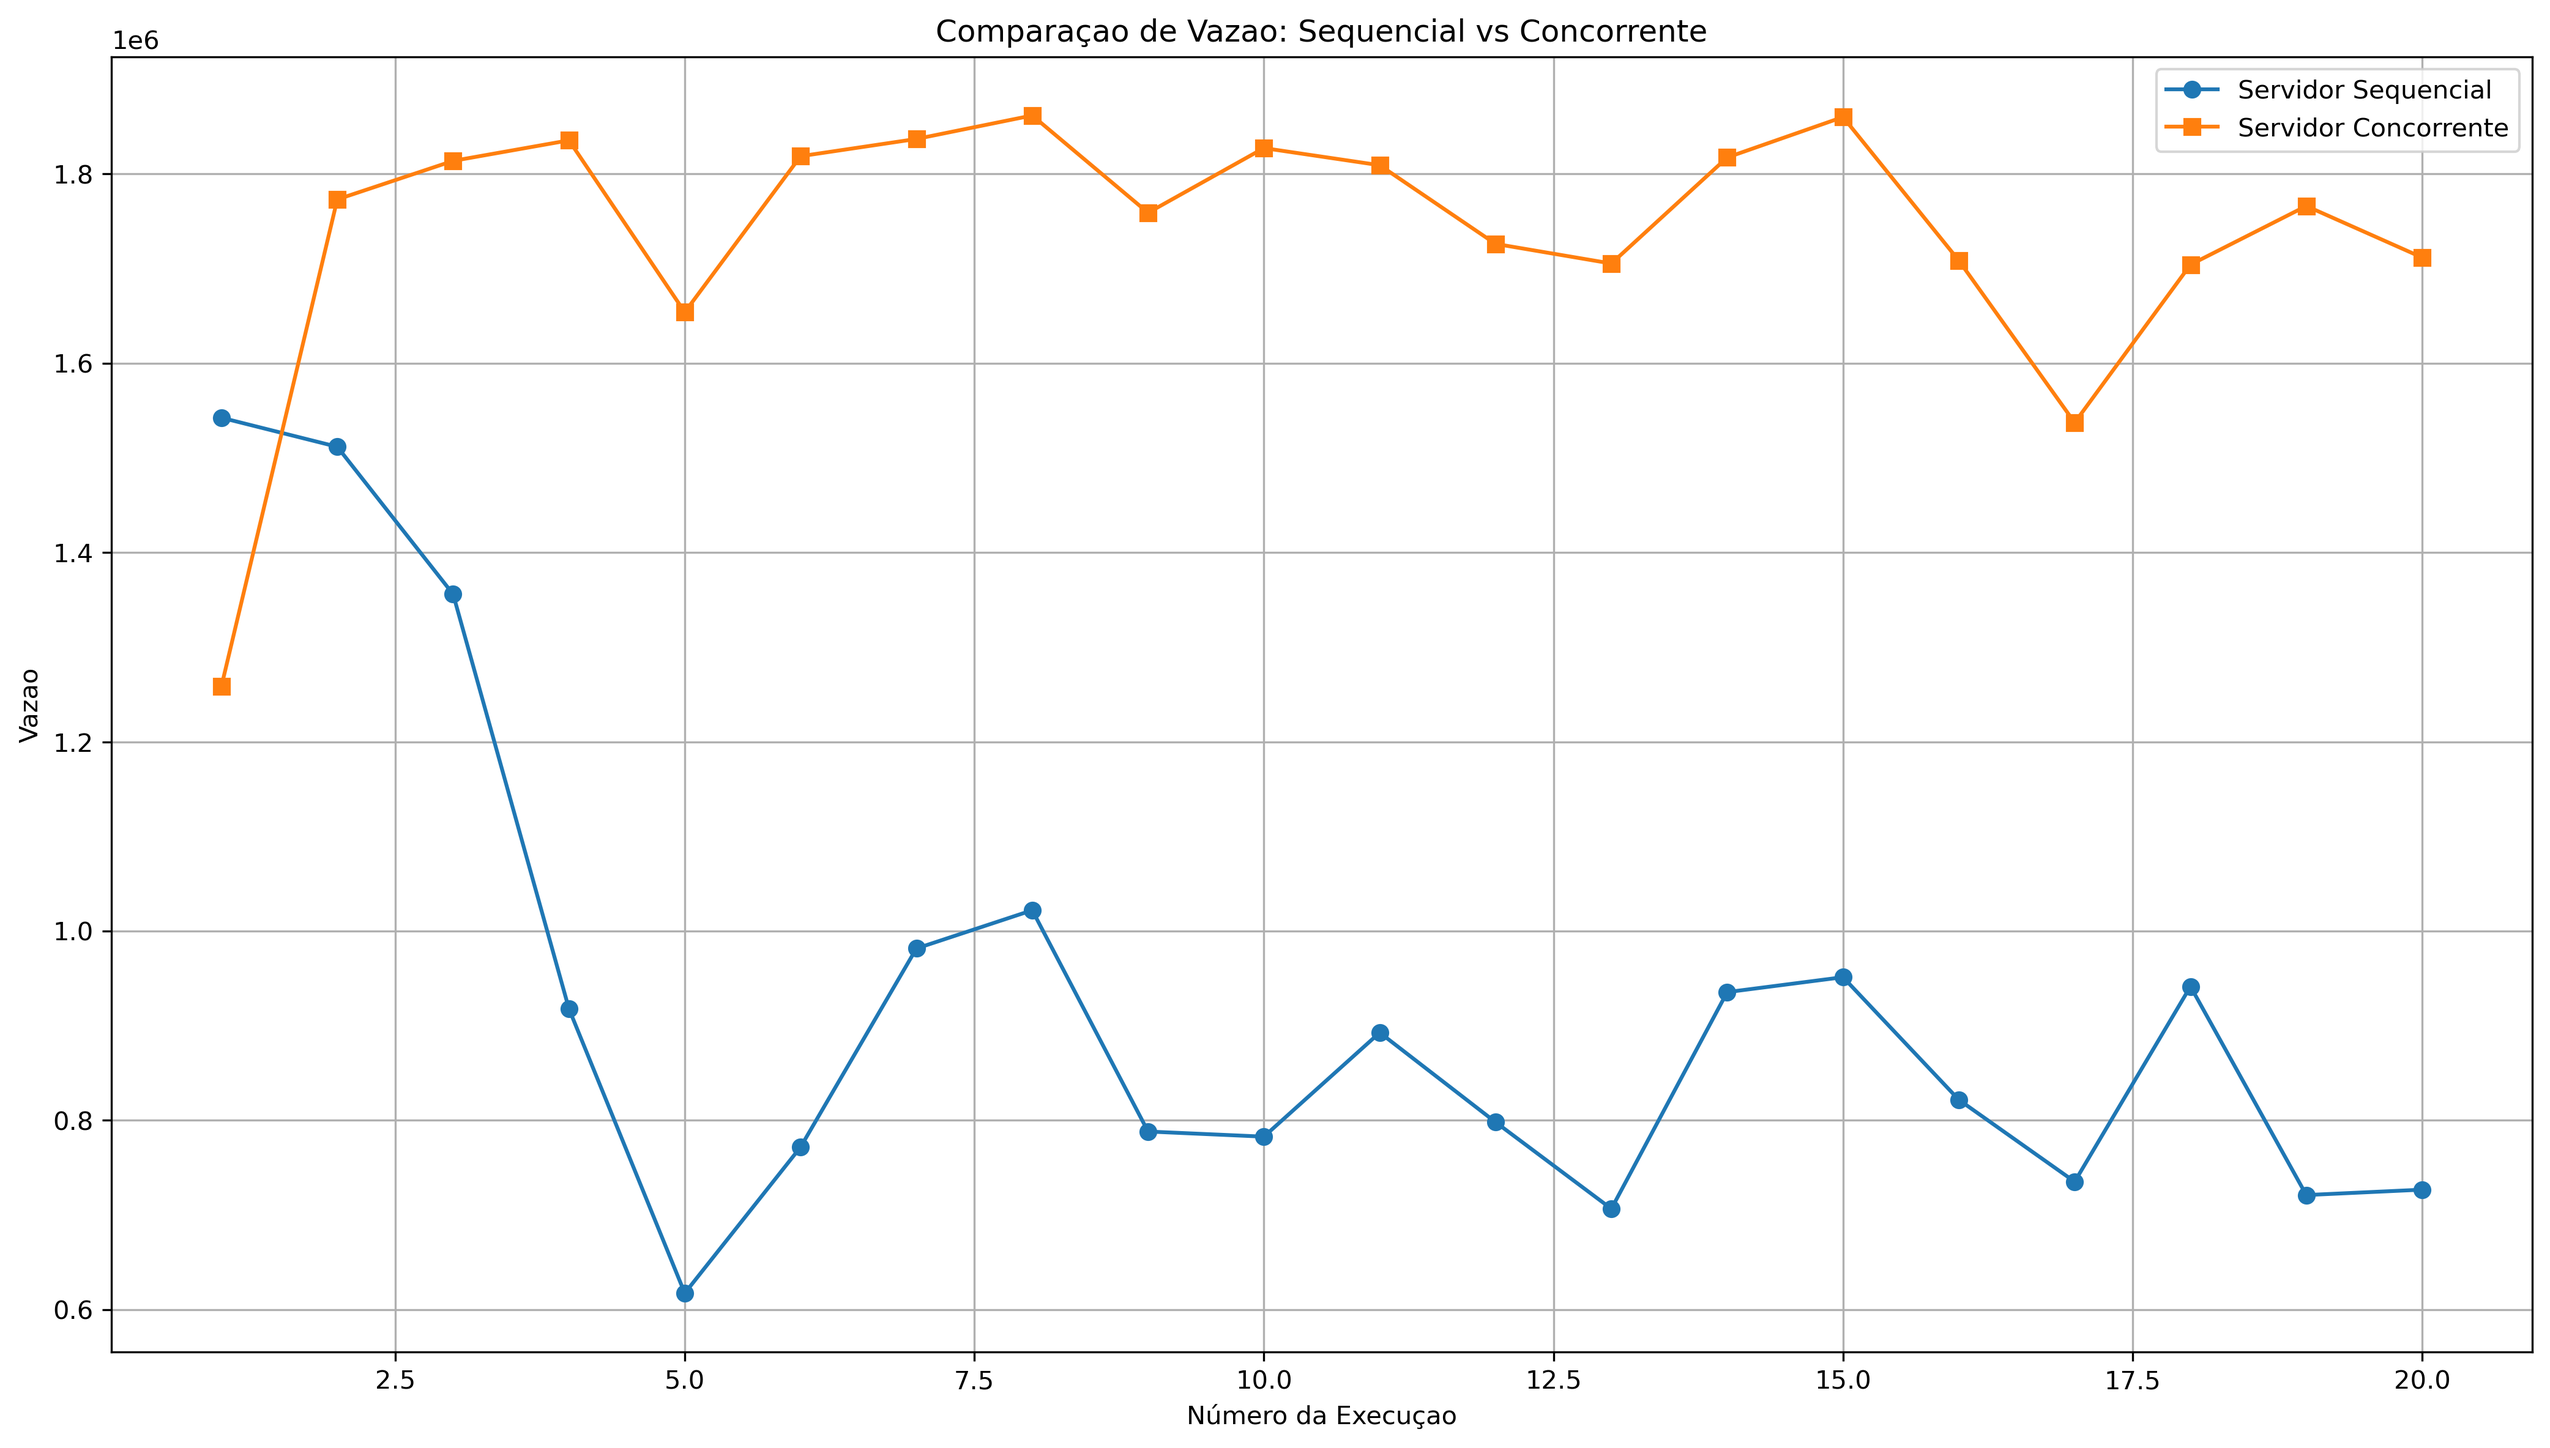
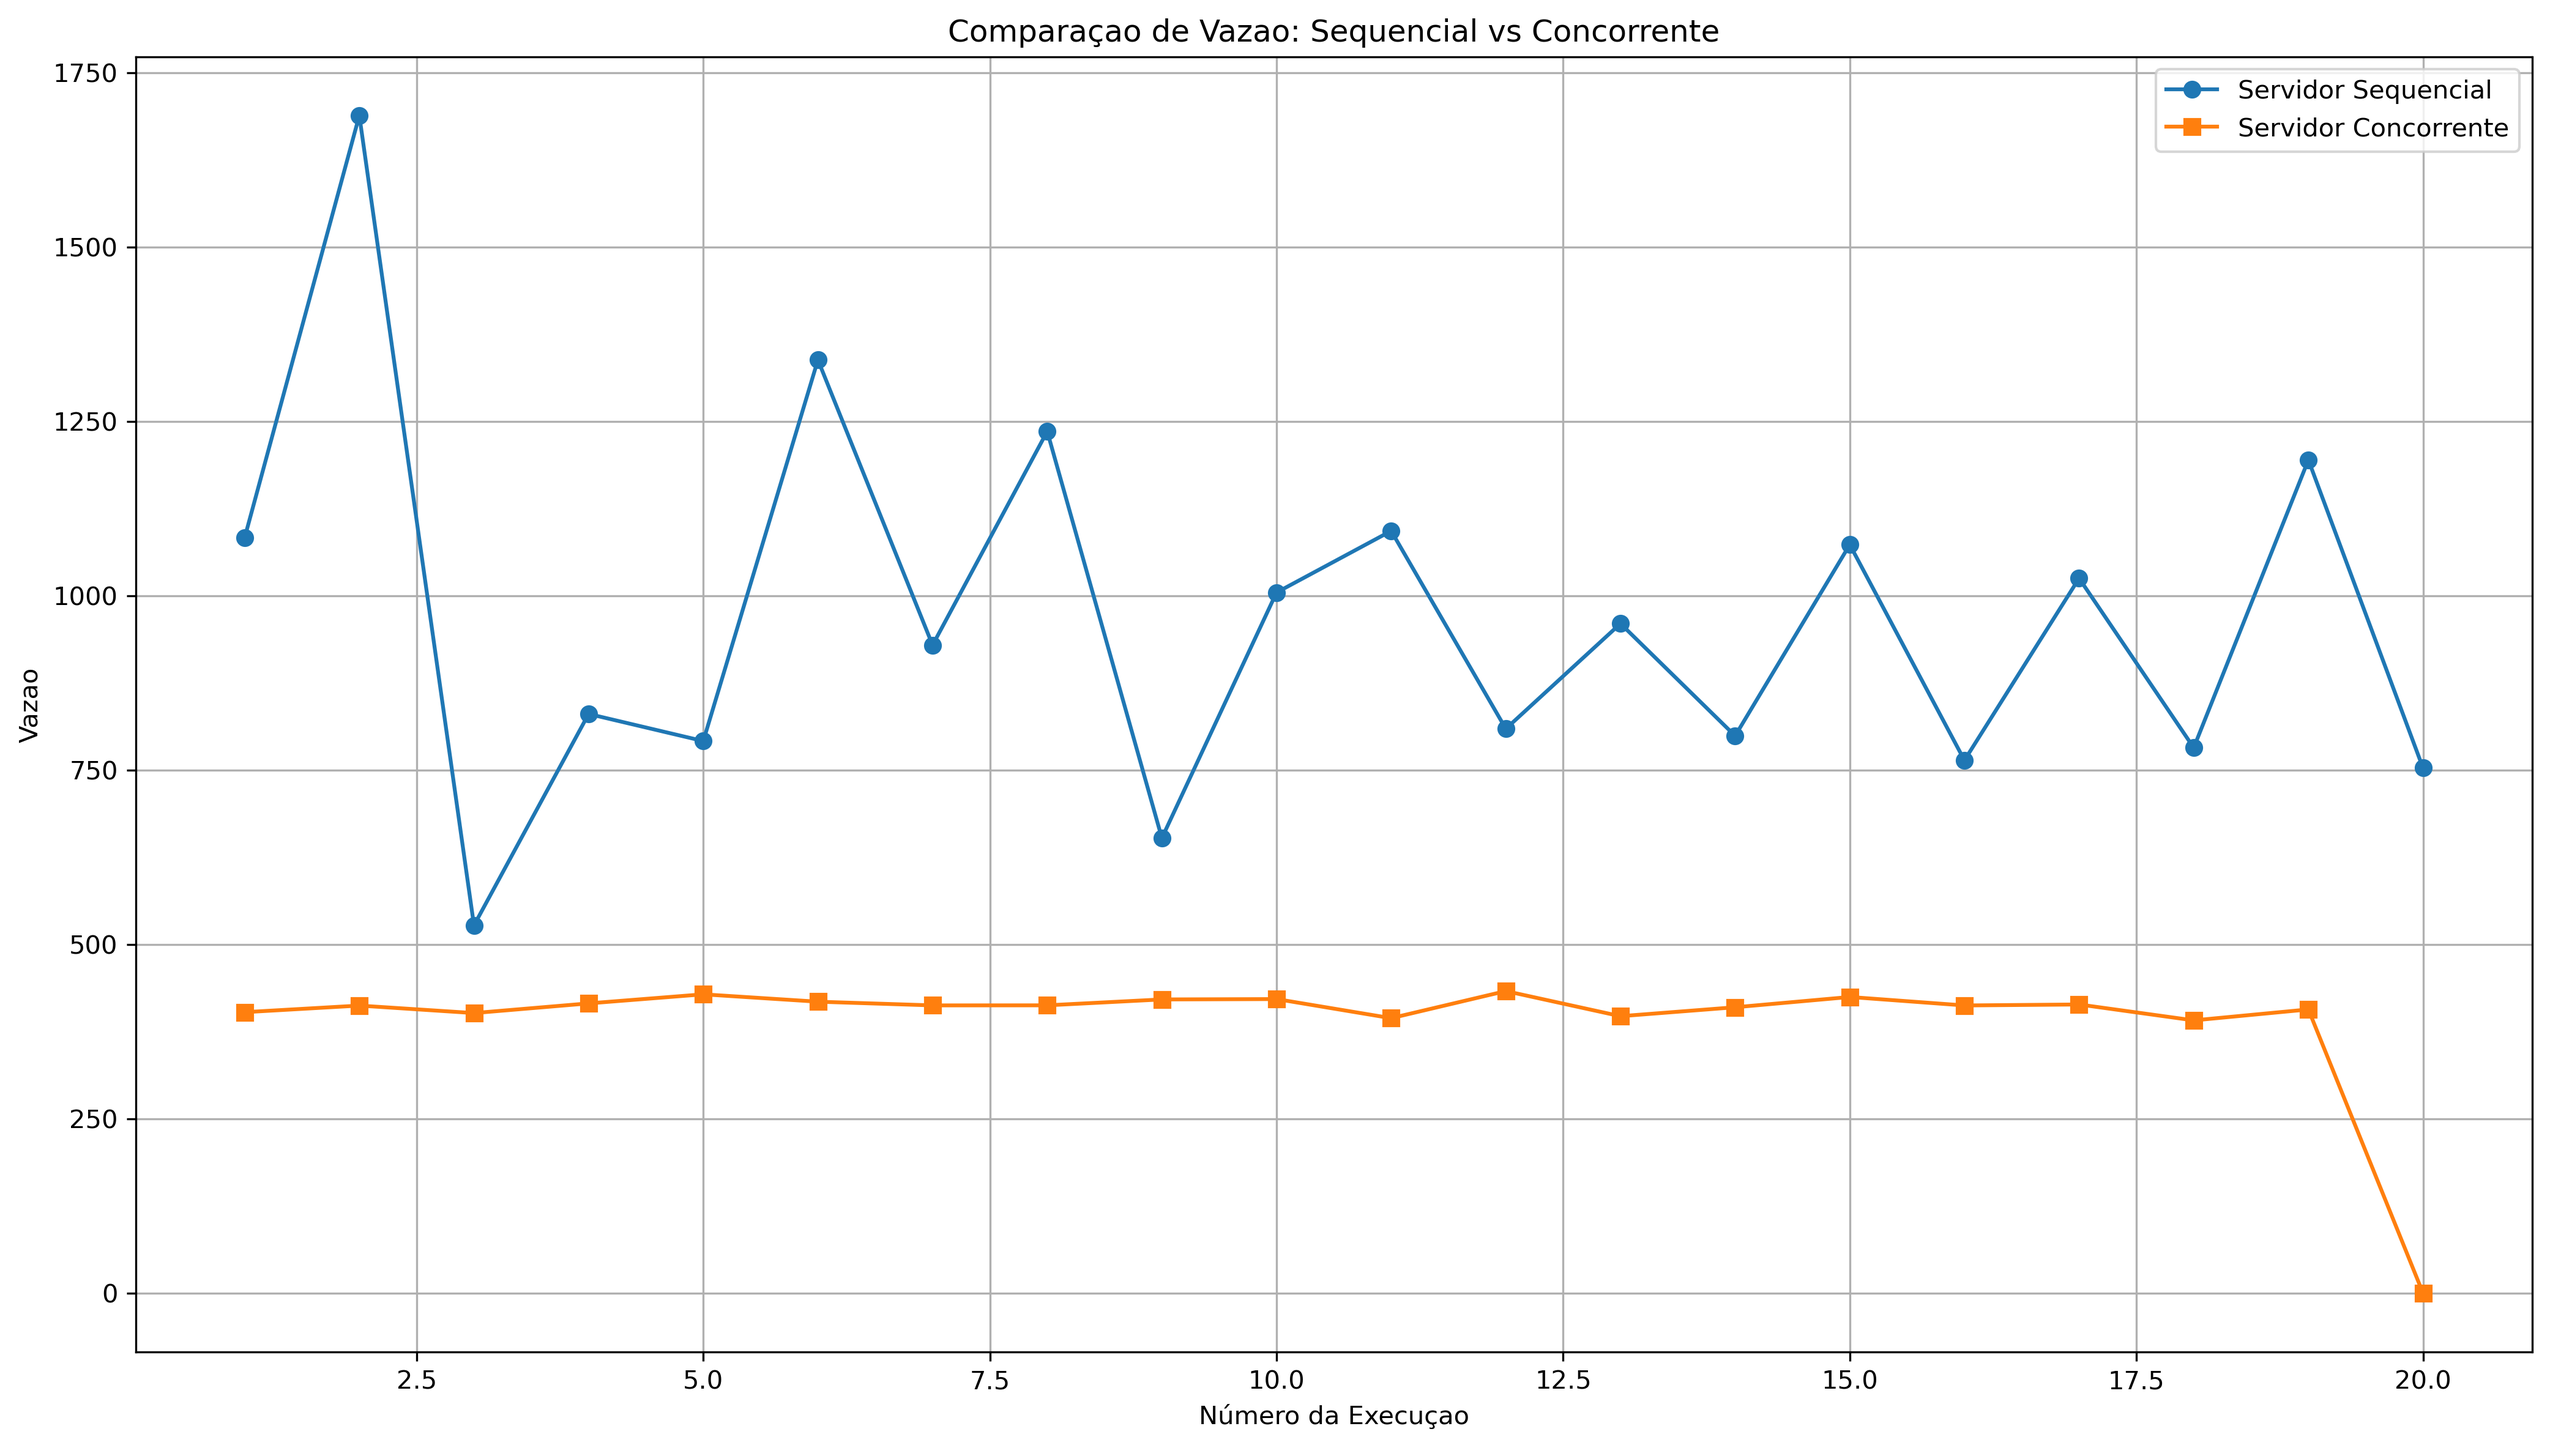
add algumas alterações em teste e servidores

diff --git a/src/servidor_assincrono/servidorAssincrono.py b/src/servidor_assincrono/servidorAssincrono.py
@@ -8,7 +8,9 @@ import threading
 
 PORT = 8080
 HOST = '0.0.0.0'
-MAX_CONEXOES = 10
+MAX_CONEXOES = 5
+#novo cenario de testes
+#modificar o max conexoes e colocar os valores numa tabela
 
 def gerar_hash():
     chave = '20239019558 Rayssa Alves'
@@ -33,7 +35,7 @@ class ServidorConcorrente():
         try:
             self.servidor_socket.bind((self.host, self.porta))
             self.servidor_socket.listen(MAX_CONEXOES)
-            # print(f'Servidor iniciado em {self.host}:{self.porta}')
+           
             while True:
                 cliente, endereco = self.servidor_socket.accept()
                 thread_cliente = threading.Thread(target=self.gerenciar_cliente, args=(cliente, endereco))
@@ -48,16 +50,12 @@ class ServidorConcorrente():
         with self.lock:
             self.conexoes_ativas += 1
             id_conexao = self.conexoes_ativas
-            
-            
-        # print(f'Conexao {id_conexao} estabelecida com {endereco}')
         
         try:
             self.tratar_cliente(cliente, endereco, id_conexao)
         finally:
             with self.lock:
                 self.conexoes_ativas-=1
-            # cliente.close()
             # print(f'conexao {id_conexao} finalizada | Ativas :{self.conexoes_ativas}')
     
     # Separa a primeira linha (ex: GET /status HTTP/1.1)
@@ -97,7 +95,6 @@ class ServidorConcorrente():
                 resposta_erro = self.mensagem_erro(401, id_cliente)
                 corpo = json.dumps(resposta_erro, indent=2)
                 resposta = self.montar_mensagem_http(401, corpo, id_cliente)
-                # cliente.sendall(resposta.encode('utf-8'))
             else:
                 with self.lock:  
                     self.contador_requisicoes+=1
@@ -108,11 +105,9 @@ class ServidorConcorrente():
                 
             cliente.sendall(resposta.encode('utf-8'))
             
-            
-            # print(f'Requisicao {requisicao_atual} (conexao {id_conexao}) Tempo total {tempo_final}')
         except:
             resposta_erro = self.mensagem_erro(500, id_conexao)
-            corpo = json.dumps(resposta_erro, separators=(',', ':'))
+            corpo = json.dumps(resposta_erro, indent=2)
             resposta = self.montar_mensagem_http(500, corpo, id_cliente, id_conexao)
             cliente.sendall(resposta.encode('utf-8'))
             
@@ -129,7 +124,7 @@ class ServidorConcorrente():
             'Conteudo': conteudo
         })
         
-        corpo = json.dumps(resposta, separators=(',', ':'))
+        corpo = json.dumps(resposta, indent=2)
         resposta_http = self.montar_mensagem_http(status_code, corpo, id_cliente, id_conexao)
         
         
@@ -170,7 +165,6 @@ class ServidorConcorrente():
             f'HTTP/1.1 {status_code} {mensagem_requisicao}\r\n'
             'Content-Type: application/json\r\n'
             f'Content-Length: {len(corpo.encode("utf-8"))}\r\n'
-            'Server: Servidor Concorrente\r\n'
             f'ID-Recebido: {id_cliente}\r\n'
             f'ID-Thread: {threading.current_thread().ident}\r\n'
             f'ID-Conexao: {id_conexao}\r\n'
@@ -184,7 +178,7 @@ class ServidorConcorrente():
         #Para o servidor
         if self.servidor_socket:
             self.servidor_socket.close()
-            print("Servidor Concorrente parado")
+            # print("Servidor Concorrente parado")
 
 if __name__ == "__main__":
     servidor = ServidorConcorrente()

diff --git a/src/cliente/testes.py b/src/cliente/testes.py
@@ -12,13 +12,13 @@ def teste_sequencial(metodo, caminho, num_requisicoes, cliente = None):
     for i in range(num_requisicoes):
         ok, response_time, resposta = cliente.enviar_requisicao(metodo, caminho)
         if ok:
-            # print(f'------------------------------ Requisicao {i+1} ------------------------------')
+            print(f'------------------------------ Requisicao {i+1} ------------------------------')
             # print(resposta)
             tempos.append(response_time)
             # print(f'\t[{i+1}]  \t {response_time*1000:.2f} ms')
         else:
             falhas.append(resposta)
-            # print(f'\t[{i+1}]  \t Falha na requisicao: {resposta}')
+            print(f'\t[{i+1}]  \t Falha na requisicao: {resposta}')
     
     tempo_total = time.time()-tempo_inicial
     tempo_medio_resposta = sum(tempos)/num_requisicoes if tempos else 0
@@ -32,9 +32,9 @@ def teste_sequencial(metodo, caminho, num_requisicoes, cliente = None):
     
     
     return {'Tempo_Total': tempo_total,
-            'Tempo_Medio':tempo_medio_resposta * 1000,
-            'Throughput': throughput * 1000,
-            'Requisicoes_Bem_Sucedidas': sucesso,
+            'Tempo_Medio_Resposta':tempo_medio_resposta,
+            'Throughput': throughput,
+            'Requisicões Bem Sucedidas': sucesso,
             'Falhas': len(falhas)
             }
   
@@ -45,17 +45,17 @@ def executar_cliente_concorrente(num_requisicoes, cliente = None, id_thread=0, m
         ok, response_time, resposta = cliente.enviar_requisicao(metodo, caminho)
         with lock:
             if ok:
-                # print(f'---------------- Thread[{id_thread}] ----------------')
+                print(f'---------------- Thread[{id_thread}] Req - {i+1}\t ----------------')
                 # print(resposta)
                 tempos.append(response_time)
                 # print(f'\tThread[{id_thread}]  Req - {i+1}\t {response_time*1000:.2f} ms')
             else:
                 falhas.append(resposta)
-                # print(f'\tThread[{id_thread}]  Req - {i+1}\t Falha na requisicao: {resposta}')
+                print(f'\tThread[{id_thread}]  Req - {i+1}\t Falha na requisicao: {resposta}')
     
   
 def teste_concorrente(metodo, caminho, num_requisicoes, num_threads, cliente = None, ):
-    print(f"Realizando {num_requisicoes} requisicões concorrentes para {cliente.host}:{cliente.porta} com {num_threads} threads")
+    # print(f"Realizando {num_requisicoes} requisicões concorrentes para {cliente.host}:{cliente.porta} com {num_threads} threads")
     
     tempos = []
     falhas = []
@@ -86,9 +86,9 @@ def teste_concorrente(metodo, caminho, num_requisicoes, num_threads, cliente = N
     
     
     return {'Tempo_Total': tempo_total,
-            'Tempo_Medio':tempo_medio_resposta * 1000,
-            'Throughput': throughput * 1000,
-            'Requisicoes_Bem_Sucedidas': sucesso,
+            'Tempo_Medio_Resposta':tempo_medio_resposta,
+            'Throughput': throughput,
+            'Requisicões Bem Sucedidas': sucesso,
             'Falhas': len(falhas)
             }
  

diff --git a/src/servidor_sincrono/servidorSincrono.py b/src/servidor_sincrono/servidorSincrono.py
@@ -67,7 +67,7 @@ class ServidorSequencial():
         
         try:
             tempo_inicial = time.time()
-            requisicao = cliente.recv(1024)
+            requisicao = cliente.recv(4096)
 
             metodo_requisicao, caminho_requisicao, cabecalhos = self.dividir_requisicao(requisicao) 
             
@@ -77,7 +77,6 @@ class ServidorSequencial():
                 resposta_erro = self.mensagem_erro(401, id_cliente)
                 corpo = json.dumps(resposta_erro, indent=2)
                 resposta = self.montar_mensagem_http(401, corpo, id_cliente)
-                # cliente.sendall(resposta.encode('utf-8'))
             else:
                 self.contador_requisicoes+=1
             
@@ -90,26 +89,12 @@ class ServidorSequencial():
             corpo = json.dumps(resposta_erro, indent=2)
             resposta = self.montar_mensagem_http(500, corpo, id_cliente)
             cliente.sendall(resposta.encode('utf-8'))
-
-        finally:
-            cliente.close()
-            print(f'Conexão com {endereco} encerrada')
-            
             
     def construir_resposta(self, metodo_requisicao, caminho_requisicao, id_cliente, tempo_inicial):
         status_code = 200
         resposta = self.montar_resposta_base(metodo_requisicao, caminho_requisicao, id_cliente, tempo_inicial)
         conteudo = f'Bem vindo ao servidor Concorrente!'
-        observacao = f'Metodo GET realizado na raiz'
-            
-        
-        resposta.update({
-            'Mensagem': observacao,
-            'Conteudo': conteudo
-        })
-        
-        corpo = json.dumps(resposta, indent=2)
-            
+        observacao = f'Metodo GET realizado na raiz'  
         
         resposta.update({
             'Mensagem': observacao,
@@ -162,7 +147,7 @@ class ServidorSequencial():
         #Para o servidor
         if self.servidor_socket:
             self.servidor_socket.close()
-            print("Servidor sequencial parado")
+            # print("Servidor sequencial parado")
 
 if __name__ == "__main__":
     servidor = ServidorSequencial()
